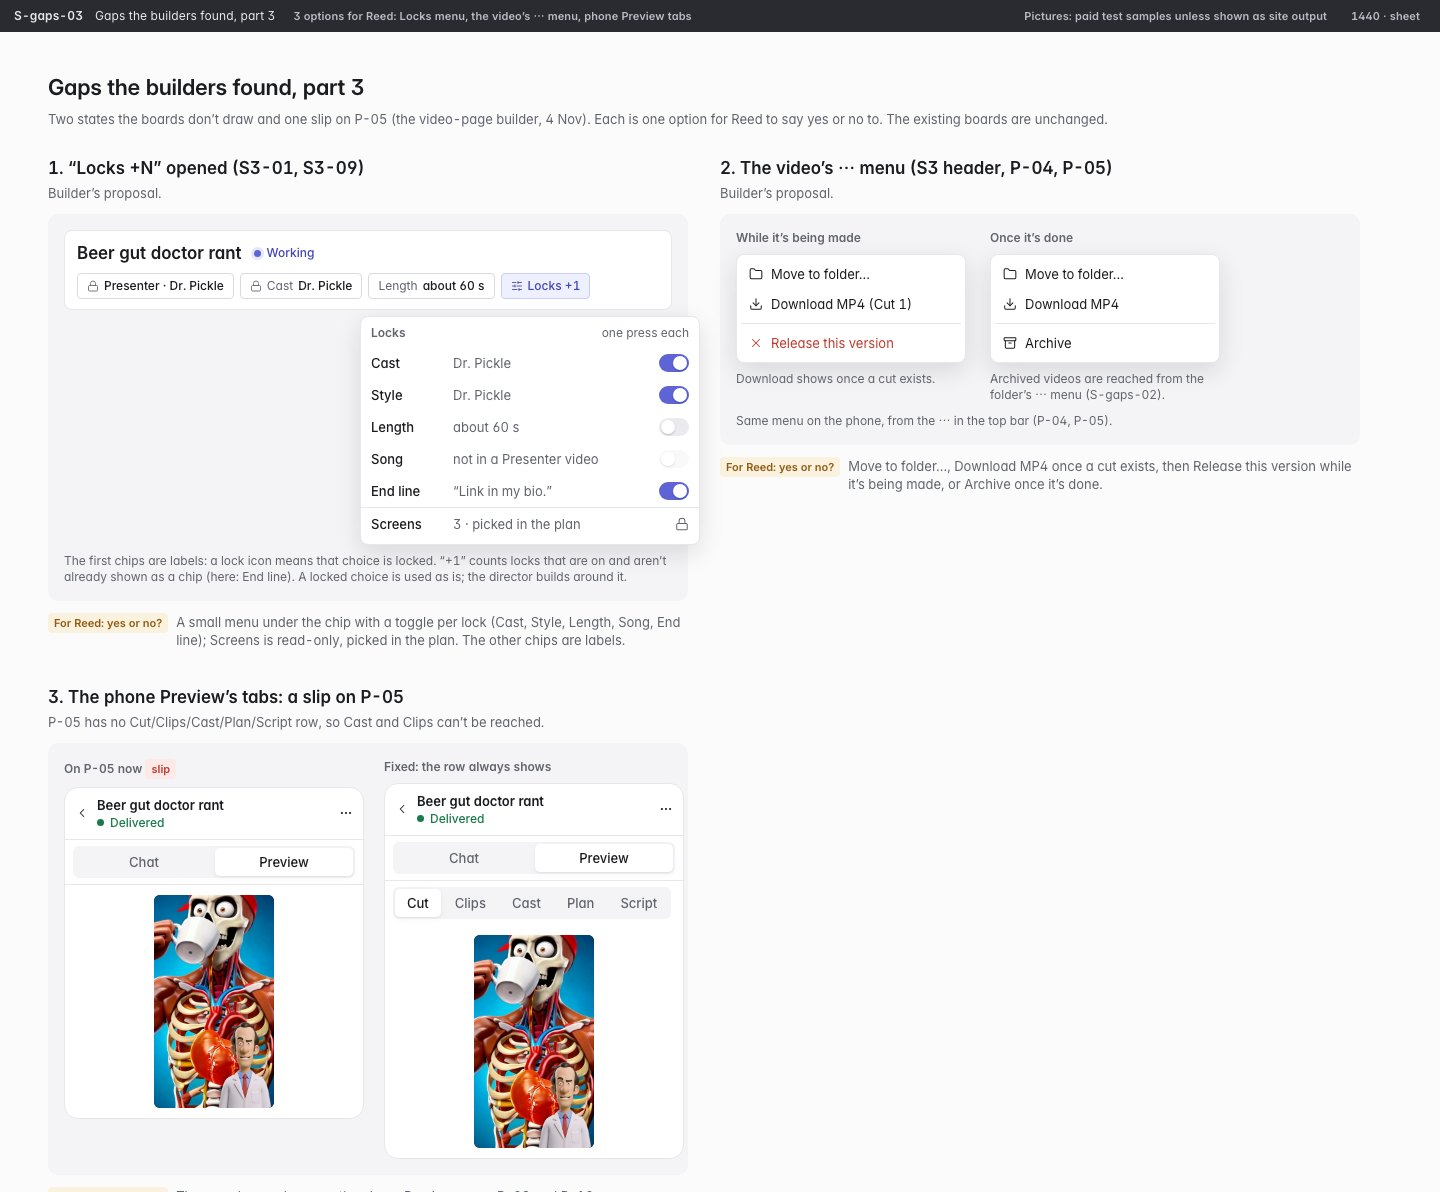
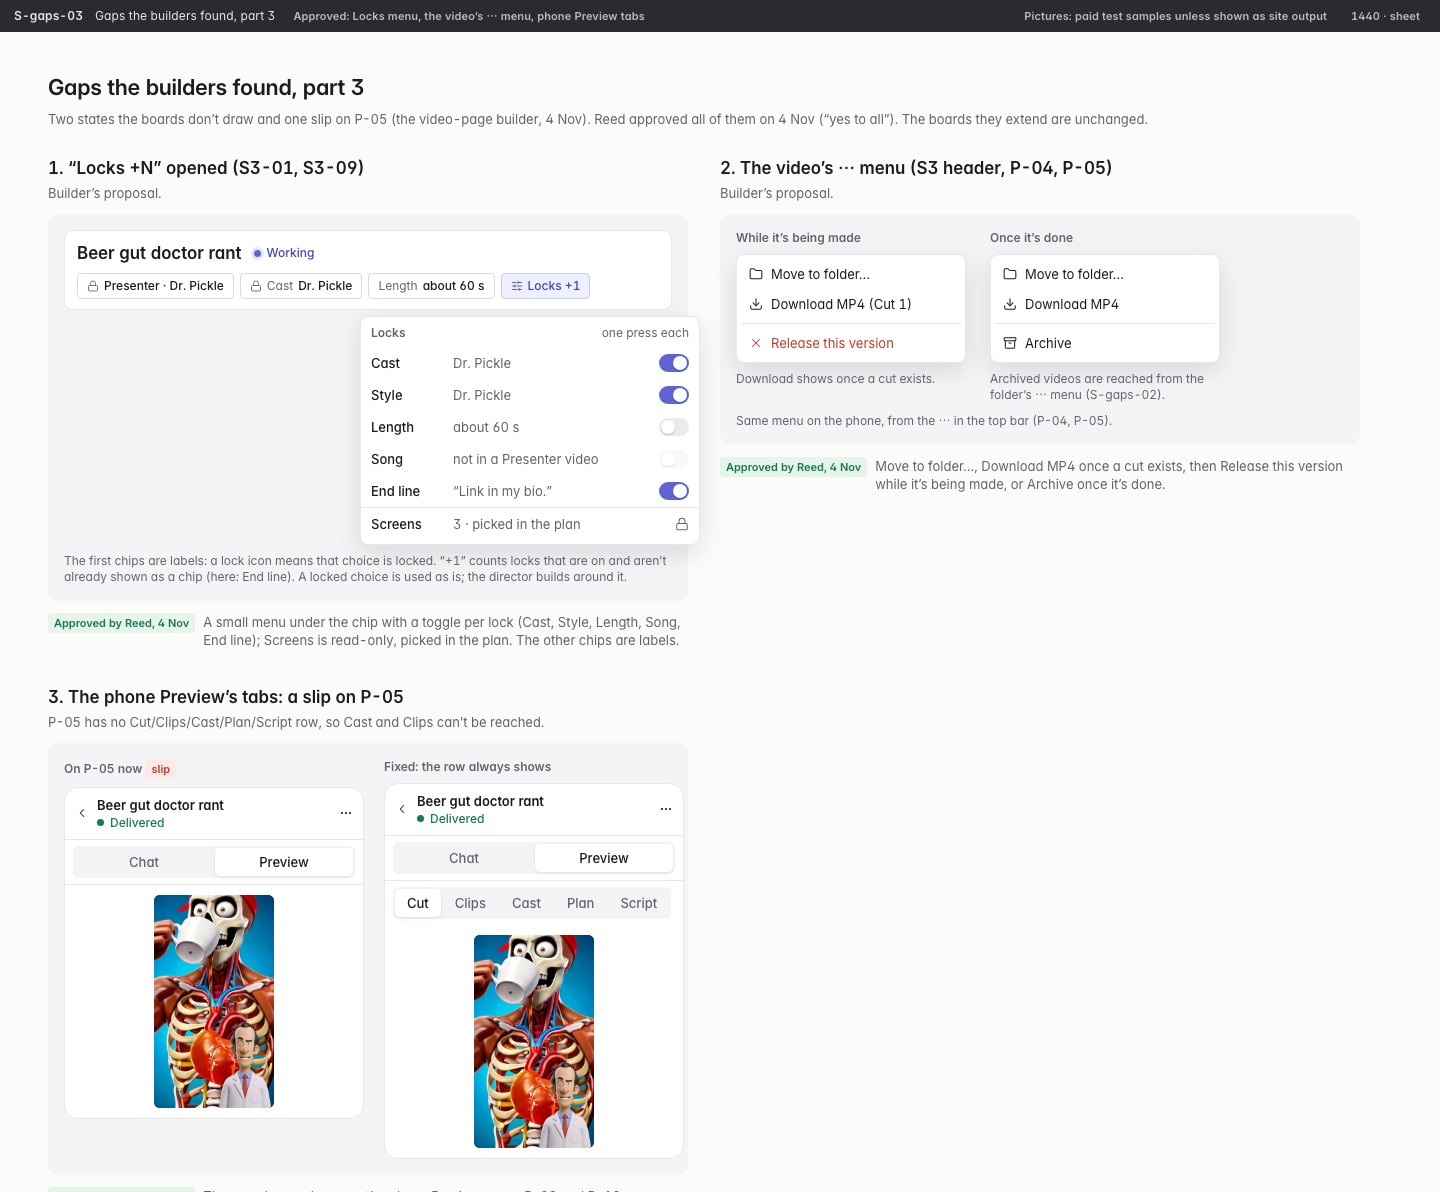
v6: S-gaps-03 approved by Reed ("yes to all")

diff --git a/docs/design/v6/src/b_gaps3.py b/docs/design/v6/src/b_gaps3.py
@@ -8,7 +8,7 @@ def cell(n, title, ask, drawn, note):
     return f'''<div class="col g3" style="width:{W}px">
       <div class="col g1"><span class="t-lg">{n}. {title}</span><span class="t-sm muted">{ask}</span></div>
       <div style="padding:16px;background:var(--surface-2);border-radius:10px;position:relative">{drawn}</div>
-      <div class="row g2 t-sm start"><span class="tag need" style="flex:none">For Reed: yes or no?</span><span class="muted">{note}</span></div></div>'''
+      <div class="row g2 t-sm start"><span class="tag ok" style="flex:none">Approved by Reed, 4 Nov</span><span class="muted">{note}</span></div></div>'''
 
 
 def switch(on, dis=False):
@@ -53,11 +53,11 @@ tabrow = '<div style="padding:6px 8px;overflow:hidden"><div class="seg" style="w
 g3 = f'''<div class="row g5 start"><div class="col g2"><span class="t-xs w6 muted">On P-05 now <span class="tag bad">slip</span></span>{ptopmini("")}</div>
   <div class="col g2"><span class="t-xs w6 muted">Fixed: the row always shows</span>{ptopmini(tabrow)}</div></div>'''
 
-sheet = f'''<div class="col g2" style="margin-bottom:28px"><span class="t-2xl">Gaps the builders found, part 3</span><span class="t-sm muted">Two states the boards don’t draw and one slip on P-05 (the video-page builder, 4 Nov). Each is one option for Reed to say yes or no to. The existing boards are unchanged.</span></div>
+sheet = f'''<div class="col g2" style="margin-bottom:28px"><span class="t-2xl">Gaps the builders found, part 3</span><span class="t-sm muted">Two states the boards don’t draw and one slip on P-05 (the video-page builder, 4 Nov). Reed approved all of them on 4 Nov (“yes to all”). The boards they extend are unchanged.</span></div>
   <div class="row g8 wrap start" style="row-gap:36px">
   {cell(1, "“Locks +N” opened (S3-01, S3-09)", "Builder’s proposal.", g1, "A small menu under the chip with a toggle per lock (Cast, Style, Length, Song, End line); Screens is read-only, picked in the plan. The other chips are labels.")}
   {cell(2, "The video’s ⋯ menu (S3 header, P-04, P-05)", "Builder’s proposal.", g2, "Move to folder…, Download MP4 once a cut exists, then Release this version while it’s being made, or Archive once it’s done.")}
   {cell(3, "The phone Preview’s tabs: a slip on P-05", "P-05 has no Cut/Clips/Cast/Plan/Script row, so Cast and Clips can’t be reached.", g3, "The row always shows on the phone Preview, as on P-09 and P-10.")}
   </div>'''
 
-board("S-gaps-03", "Gaps the builders found, part 3", "3 options for Reed: Locks menu, the video’s ⋯ menu, phone Preview tabs", sheet, "s", h=1160)
+board("S-gaps-03", "Gaps the builders found, part 3", "Approved: Locks menu, the video’s ⋯ menu, phone Preview tabs", sheet, "s", h=1160)
